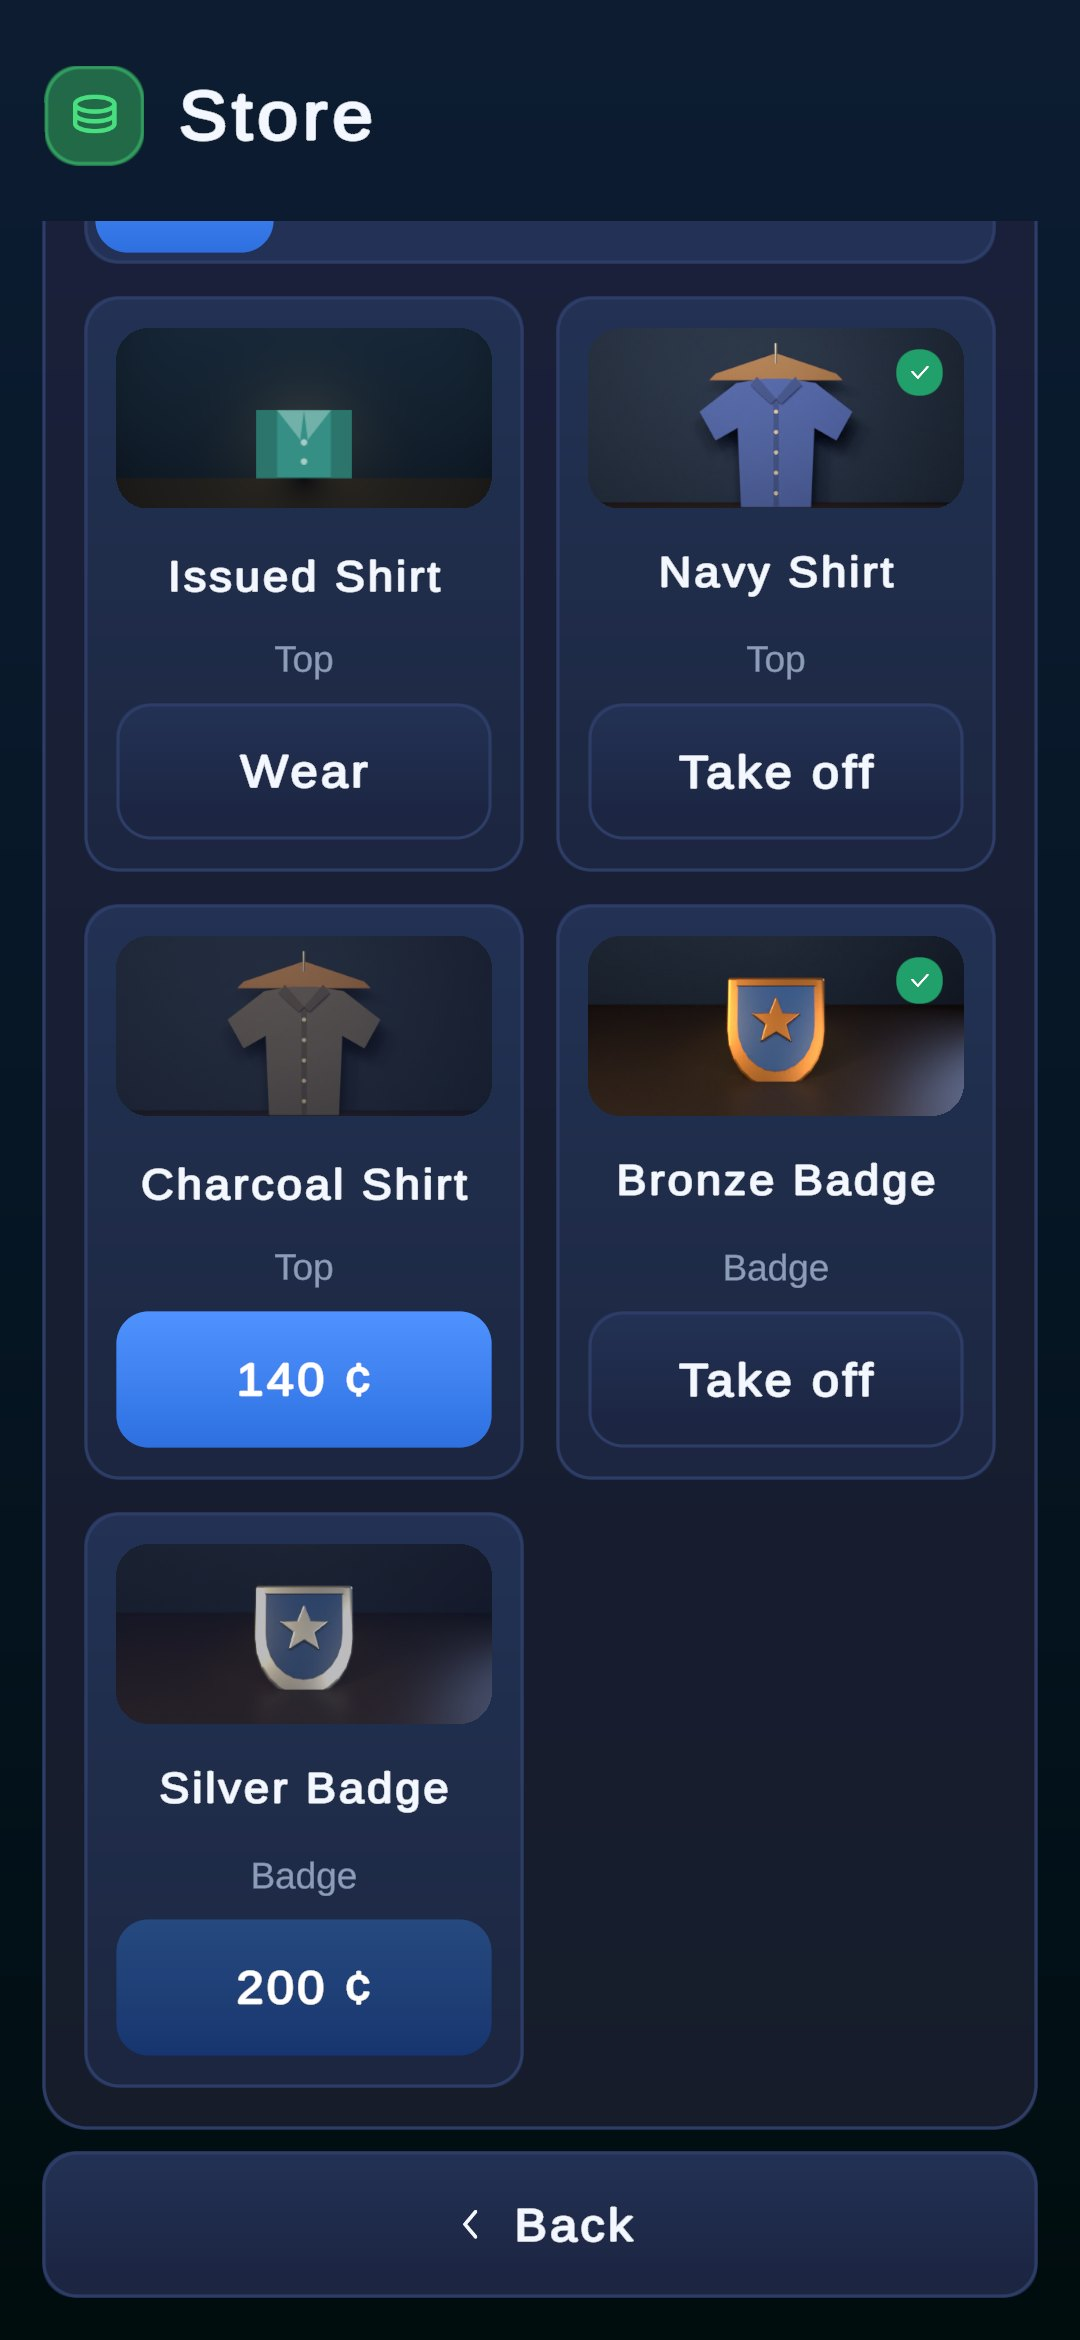
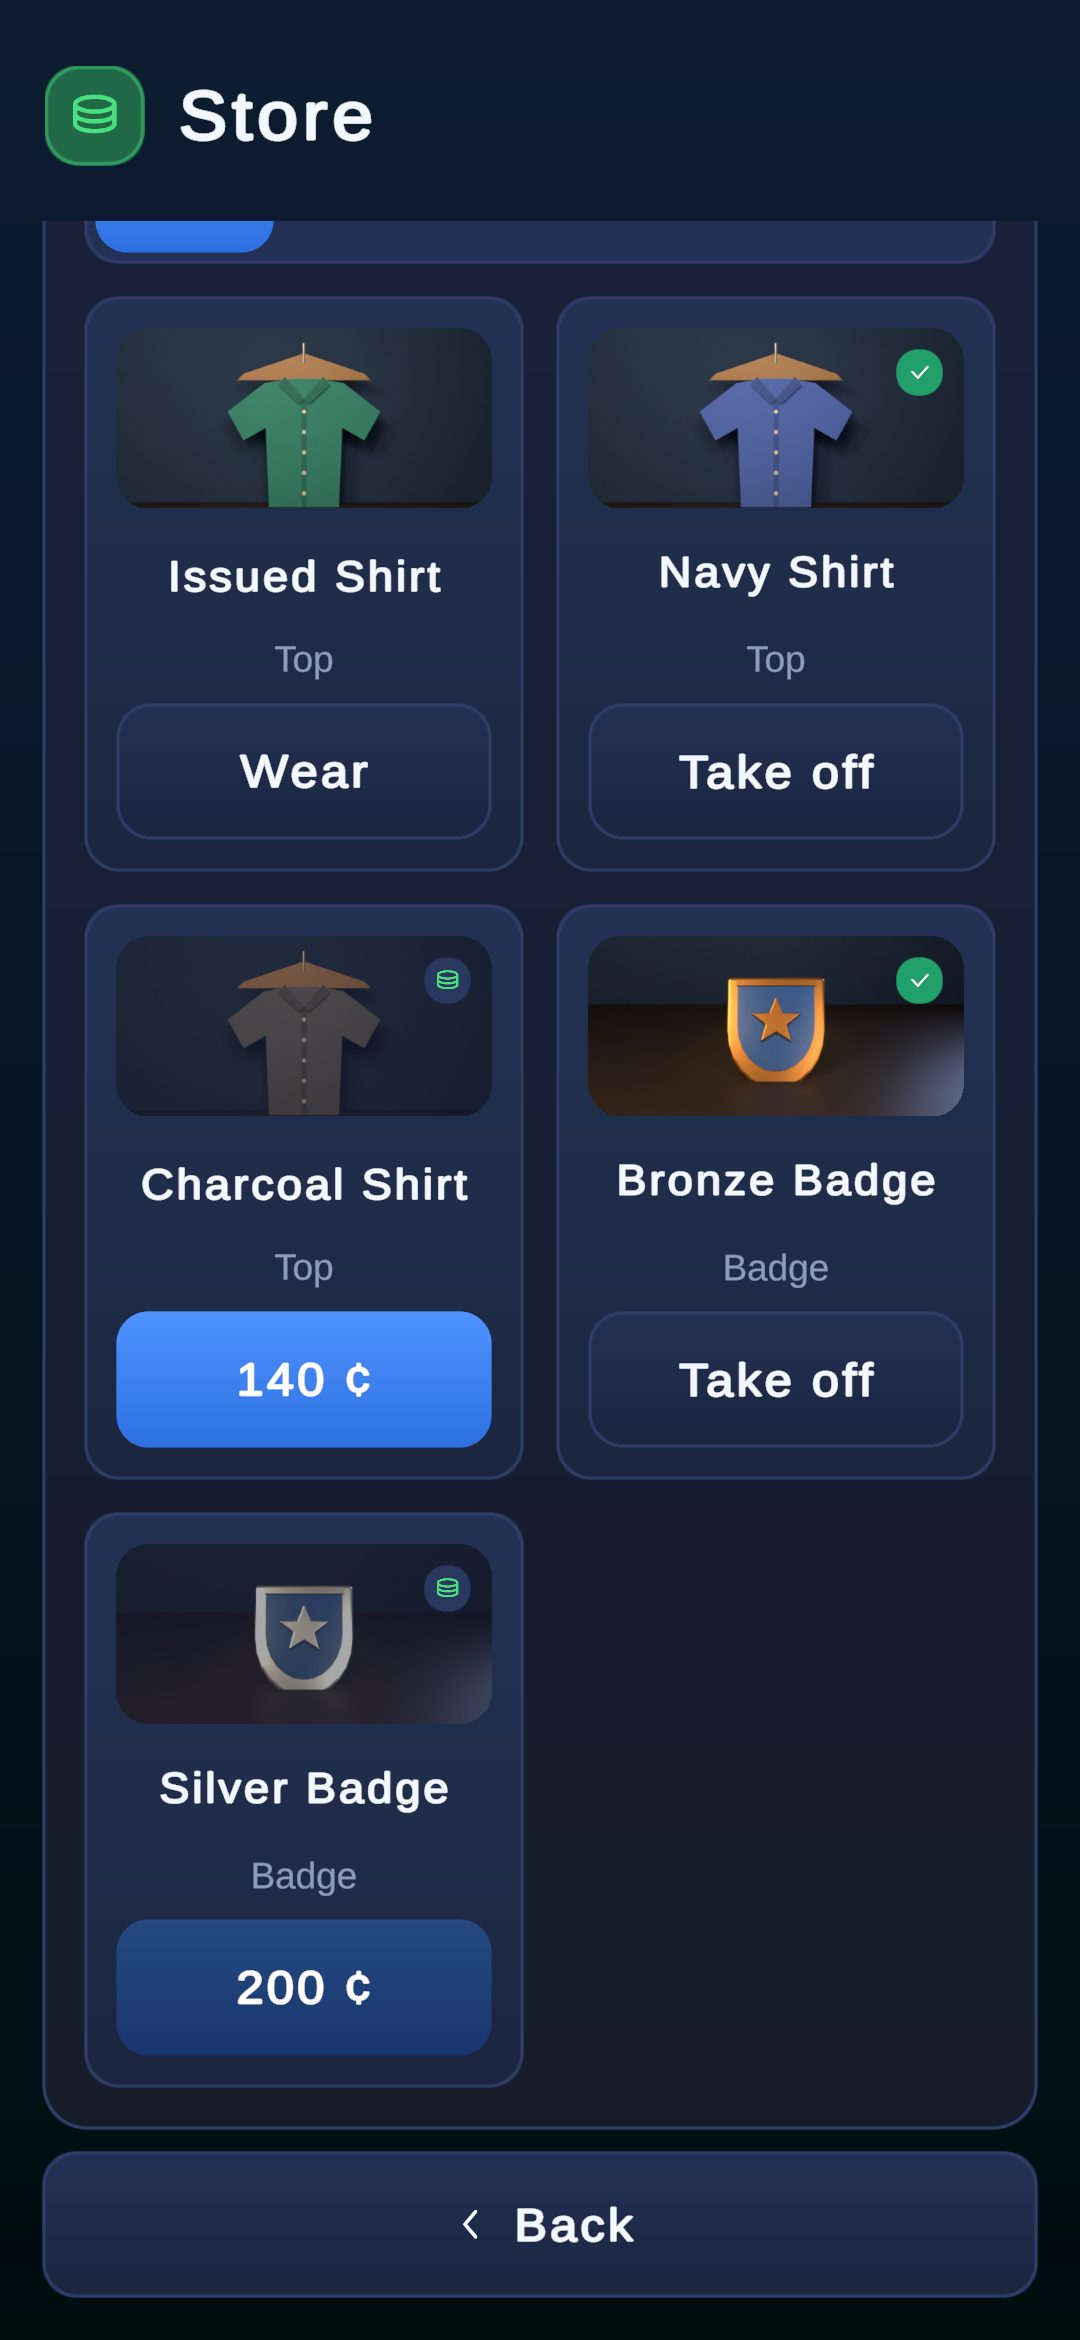
wardrobe: phase 2 phone fixes (7ea7da3), before on the phone and after in the editor; phone re-check pending

Changed region(s): [[0.0917, 0.1248, 0.3972, 0.2184], [0.3972, 0.6551, 0.4278, 0.6863], [0.3972, 0.4056, 0.4278, 0.4368]]

diff --git a/wardrobe/index.html b/wardrobe/index.html
@@ -197,10 +197,35 @@ td a { color: var(--accent); }
 <figure><a href="img/wardrobe2-woman.jpg"><img src="img/wardrobe2-woman.jpg" alt="The Wardrobe with the live preview of a female supervisor" loading="lazy"></a><figcaption><b>Woman</b>The toggle is free and saved at once; the room's figure changes on the next frame.</figcaption></figure>
 <figure><a href="img/wardrobe2-tab-badges.jpg"><img src="img/wardrobe2-tab-badges.jpg" alt="The Badges category tab" loading="lazy"></a><figcaption><b>A category tab · Badges</b>Only tabs with items are drawn: today All, Tops and Badges.</figcaption></figure>
 <figure><a href="img/wardrobe2-tryon.jpg"><img src="img/wardrobe2-tryon.jpg" alt="Trying on the Charcoal Shirt" loading="lazy"></a><figcaption><b>Trying on</b>Tapping the unowned Charcoal Shirt puts it on the figure. Nothing is saved; "Back to your outfit" or leaving the store undoes it.</figcaption></figure>
-<figure><a href="img/wardrobe2-states.jpg"><img src="img/wardrobe2-states.jpg" alt="Item tiles in Buy, Wear, Take off and Worn states" loading="lazy"></a><figcaption><b>Buy · Wear · Take off</b>Charcoal: price. Navy (owned): Wear. Bronze (worn): Take off. The Issued Shirt is Worn while no other top is.</figcaption></figure>
+<figure><a href="img/wardrobe2-states.jpg"><img src="img/wardrobe2-states.jpg" alt="Item tiles in Buy, Wear, Take off and Worn states" loading="lazy"></a><figcaption><b>Buy · Wear · Take off</b>Charcoal: price. Navy (owned): Wear. Bronze (worn): Take off. The Issued Shirt, now a hanger render like the others, is Worn while no other top is. Items you don't own sit behind a heavier veil with a coin mark where an owned item has its check.</figcaption></figure>
 <figure><a href="img/wardrobe2-states-worn.jpg"><img src="img/wardrobe2-states-worn.jpg" alt="Tiles after wearing the Navy Shirt" loading="lazy"></a><figcaption><b>After Wear</b>Navy now offers Take off, which puts the Issued Shirt back on; the Issued Shirt offers Wear.</figcaption></figure>
 <figure><a href="img/wardrobe2-wearing-navy.jpg"><img src="img/wardrobe2-wearing-navy.jpg" alt="The preview wearing the Navy Shirt" loading="lazy"></a><figcaption><b>The preview follows</b>Wearing the Navy Shirt and the Bronze Badge.</figcaption></figure>
 <figure><a href="vid/wardrobe2-drag.gif"><img src="vid/wardrobe2-drag.gif" alt="Animated: the preview figure turning as it is dragged" loading="lazy"></a><figcaption><b>Drag to turn</b>A sideways drag turns the figure (a full screen width is one turn); an up-down drag scrolls the page.</figcaption></figure>
+    </div>
+    <h3 id="phone">On the phone</h3>
+    <div class="note">
+      <p><b>The phone found four preview bugs; they are fixed in <code>7ea7da3</code>. The re-check on the phone is still
+        pending.</b> On the Galaxy A15 (build <code>6ac9729</code>) the preview logged render errors twice a frame from the
+        first Wardrobe visit until the app was closed. The back of the figure was striped with a skin band at the waist,
+        try-on left the figure in the issued green, and turning stuck after a drag or two.</p>
+      <p><b>One cause.</b> The preview's texture asked for 2× anti-aliasing while the phone's render pipeline has it
+        off. Every opaque and transparent pass of the preview failed ("Attachment 0 was created with 1 samples but 2
+        samples were requested"). With the passes went the depth test, so the body's skin and trousers drew over the
+        shirt. The picture also stopped updating, so try-ons and turns happened but never reached the screen. The
+        texture is now single-sampled, the camera does not ask for anti-aliasing, and it stops the moment you leave the
+        store. The Mac editor never showed the bug, so the "after" pictures below are from the editor until the phone
+        confirms them.</p>
+      <p><b>Also:</b> unowned tiles are clearly marked, the Issued Shirt has its hanger render, and the drag decides
+        turn-or-scroll from the whole movement since the touch began.</p>
+    </div>
+    <div class="pair">
+<figure><a href="img/wardrobe2-phone-before-wardrobe-back-zoom.jpg"><img src="img/wardrobe2-phone-before-wardrobe-back-zoom.jpg" alt="Phone before the fix: the back of the figure striped, with a skin band at the waist" loading="lazy"></a><figcaption><b>Before · phone, 6ac9729</b>Back view: striping and a skin band at the waist.</figcaption></figure>
+<figure><a href="img/wardrobe2-fixed-back.jpg"><img src="img/wardrobe2-fixed-back.jpg" alt="After the fix: the woman from behind, shirt and trousers drawn correctly" loading="lazy"></a><figcaption><b>After · editor, 7ea7da3</b>The same view, drawn correctly. Phone re-check pending.</figcaption></figure>
+<figure><a href="img/wardrobe2-phone-before-tryon-navy.jpg"><img src="img/wardrobe2-phone-before-tryon-navy.jpg" alt="Phone before the fix: trying on the Navy Shirt but the figure still in green" loading="lazy"></a><figcaption><b>Before · phone</b>"Trying on: Navy Shirt" over a frozen green figure.</figcaption></figure>
+<figure><a href="img/wardrobe2-tryon.jpg"><img src="img/wardrobe2-tryon.jpg" alt="After the fix: trying on the Charcoal Shirt, the figure wears it" loading="lazy"></a><figcaption><b>After · editor</b>The figure wears what is tried on. A test checks that the picture matches buying and wearing it.</figcaption></figure>
+<figure><a href="img/wardrobe2-phone-before-tiles-owned.jpg"><img src="img/wardrobe2-phone-before-tiles-owned.jpg" alt="Phone before the fix: unowned Navy Shirt barely dimmed, Issued Shirt a flat drawing" loading="lazy"></a><figcaption><b>Before · phone</b>Navy (not owned) looks nearly owned; the Issued Shirt is a flat drawing.</figcaption></figure>
+<figure><a href="img/wardrobe2-states.jpg"><img src="img/wardrobe2-states.jpg" alt="After the fix: unowned tiles veiled with a coin mark, Issued Shirt on a hanger" loading="lazy"></a><figcaption><b>After · editor</b>Not owned: a heavier veil and a coin mark. The Issued Shirt is a hanger render.</figcaption></figure>
+<figure><a href="img/wardrobe2-phone-before-store-pills-console.jpg"><img src="img/wardrobe2-phone-before-store-pills-console.jpg" alt="Phone before the fix: the development console full of render errors over the store" loading="lazy"></a><figcaption><b>Before · phone</b>The development console over the store, about 30,000 lines of each error.</figcaption></figure>
     </div>
     <div class="cards">
       <div class="card"><h3>Eight slots</h3><p>Hat, top, trousers, shoes, badge, glasses, neck (lanyard or tie) and
@@ -208,9 +233,11 @@ td a { color: var(--accent); }
         puts the issued shirt back on. Saves move from version 3 to 4; the old "shirt" becomes the top, so nothing worn
         or owned is lost.</p></div>
       <div class="card"><h3>The preview stage</h3><p>The same figure as the room, on its own layer far below the
-        room, filmed by its own camera into a 512 × 640 texture (about 2.6 MB). Its two lights are on only while that
+        room, filmed by its own camera into a 512 × 640 texture with a depth buffer and one sample per pixel, the same as the
+        game's own render targets (about 2.6 MB). Its two lights are on only while that
         camera renders, and the room's lights are off for that moment, so neither lights the other. It renders only
-        while the card is on screen and is destroyed, texture and all, when you leave the store.</p></div>
+        while the card is on screen. When you leave the store the camera stops in the same frame and the stage is
+        destroyed, texture and all.</p></div>
       <div class="card"><h3>Ready for art</h3><p>Hats, glasses, ties and watches already have a place on the right
         bone (head, face, neck, left wrist). Phase 3 adds a catalogue line, a prefab named after the item and a shop
         tile; the tab appears by itself.</p></div>
